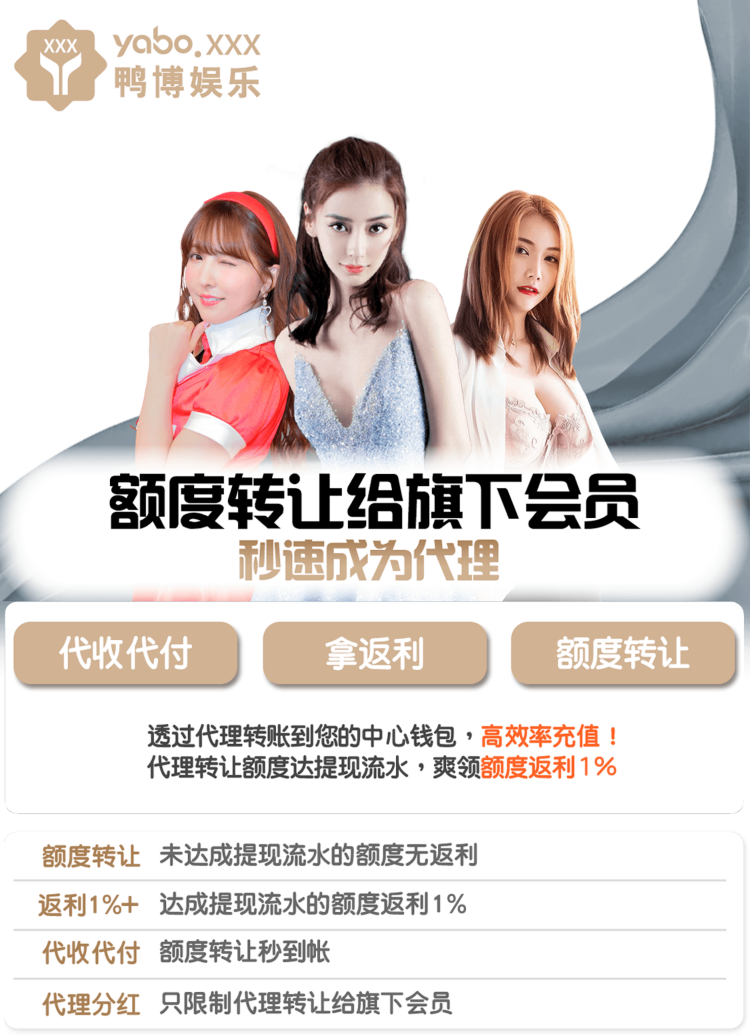
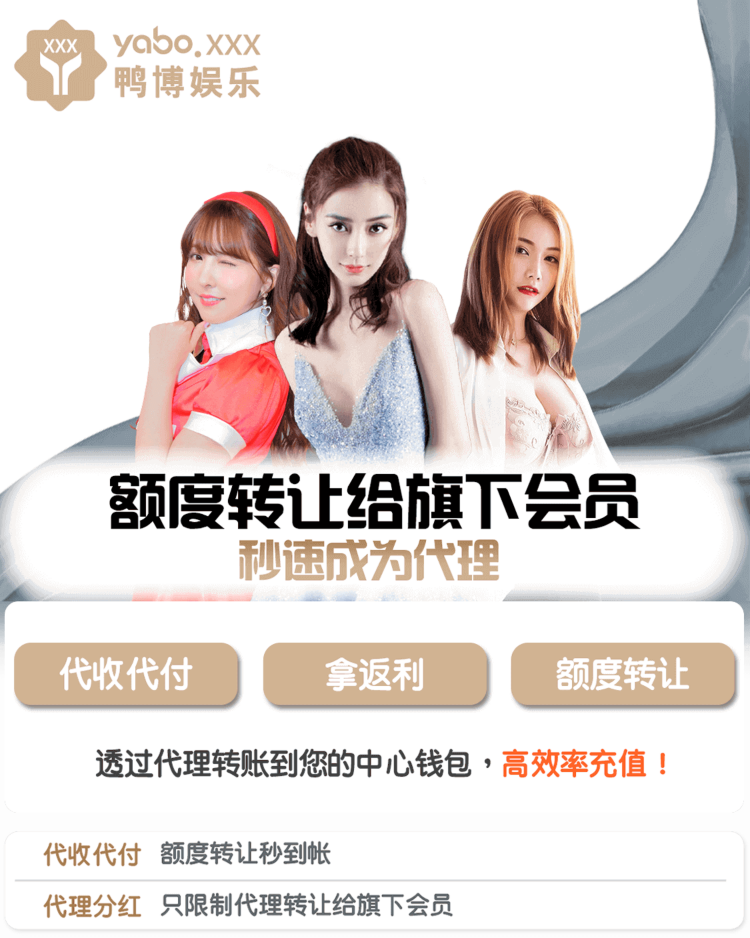
[MOD]推廣賺錢

diff --git a/resource/src/router/mobile/components/tpl/porn1/components/mcenter/components/wallet/css/porn1.index.scss b/resource/src/router/mobile/components/tpl/porn1/components/mcenter/components/wallet/css/porn1.index.scss
@@ -93,10 +93,12 @@
   right: 0;
   width: 15px;
   height: 15px;
-  background: url("/static/image/common/mcenter/wallet/ic_wallter_details_expand.png") center center / 100% 100%;
+  background: url("/static/image/common/mcenter/wallet/ic_wallter_details_expand.png")
+    center center / 100% 100%;
 
   &.collapse {
-    background: url("/static/image/common/mcenter/wallet/ic_wallter_details_collapse.png") center center / 100% 100%;
+    background: url("/static/image/common/mcenter/wallet/ic_wallter_details_collapse.png")
+      center center / 100% 100%;
   }
 }
 
@@ -264,7 +266,7 @@
   }
 
   .balance-refjackpot-text {
-    color: #BE9E7F;
+    color: #be9e7f;
     word-break: break-word;
   }
 
@@ -274,7 +276,8 @@
     right: 0;
     width: 25px;
     height: 25px;
-    background: url("/static/image/common/ic_event.png") center center / 100% 100%;
+    background: url("/static/image/common/ic_event.png") center center / 100%
+      100%;
   }
 
   .item-fix {
@@ -292,18 +295,16 @@
 
   .content {
     width: 60%;
-    display: flex;
-    flex-direction: column;
     color: #be9e7f;
-    padding: 16px 0 16px 10%;
-    font-size: 14px;
+    font-size: 16px;
+    margin-left: 10px;
     font-weight: 700;
-
-    div:last-of-type {
-      font-size: 10px;
-      font-weight: 400;
-      padding-top: 3px;
-    }
+    height: 100%;
+    text-align: center;
+    height: 100%;
+    display: flex;
+    align-items: center;
+    justify-content: center;
   }
 
   .image {
@@ -356,7 +357,8 @@
       height: 15px;
       right: 0;
       top: 1;
-      background: url("/static/image/common/arrow_next.png") center center / 100% 100%;
+      background: url("/static/image/common/arrow_next.png") center center /
+        100% 100%;
     }
   }
 }

diff --git a/resource/src/router/mobile/components/common/mcenter/theme1/deposit/components/bankCardDeposit/index.vue b/resource/src/router/mobile/components/common/mcenter/theme1/deposit/components/bankCardDeposit/index.vue
@@ -125,14 +125,14 @@
                   :class="[$style['pay-mode-item']]"
                   @click="handleCreditTrans"
                 >
-                  <div :class="[$style['pay-main-title'], $style['custom']]">
+                  <div :class="[$style['pay-sub-title'], $style['custom']]">
                     代收代付
                   </div>
                   <div
                     :class="[$style['pay-sub-title'], $style['custom']]"
                     style="color: black"
                   >
-                    额度转让 代理分红
+                    代理分红
                   </div>
                 </div>
               </template>

diff --git a/resource/src/router/mobile/components/tpl/porn1/components/mcenter/components/wallet/css/sg1.index.scss b/resource/src/router/mobile/components/tpl/porn1/components/mcenter/components/wallet/css/sg1.index.scss
@@ -3,18 +3,12 @@
 .invite-wrap {
   .content {
     color: #414655;
-
-    div:last-of-type {
-      font-size: 15px;
-      padding-top: 10px;
-    }
   }
 }
 
 .wallet-info-wrap {
-
   .goDeposit {
-    color: #FEFFFE !important;
+    color: #fefffe !important;
     background: linear-gradient(#fe593c, #e61938) !important;
     box-shadow: 0pt 3px 7px 0pt rgba(255, 0, 0, 0.3) !important;
   }
